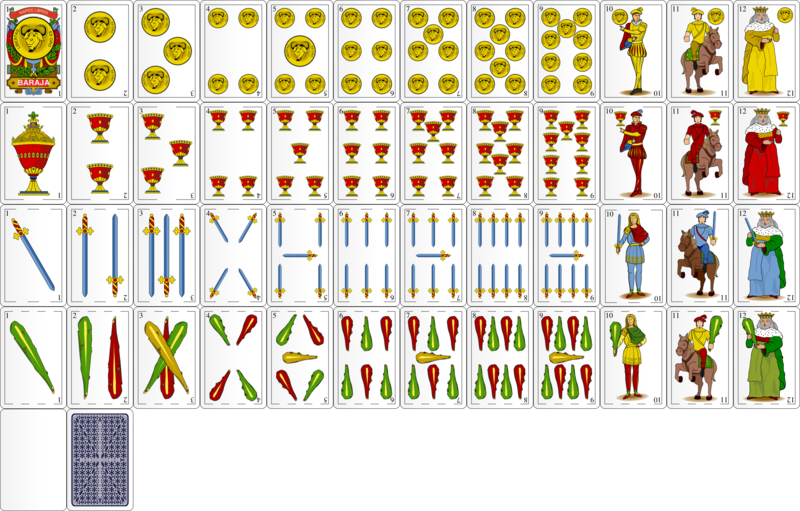
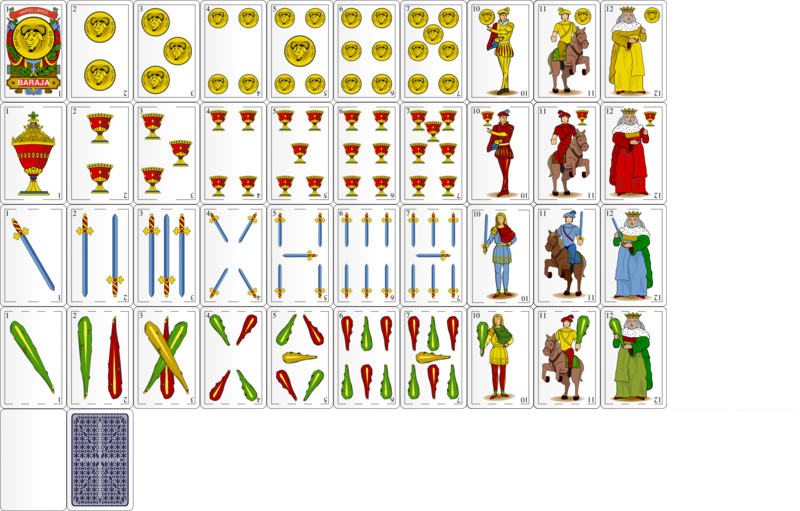
Renderizar bien la pinta

Changed region(s): [[0.5625, 0.0, 1.0, 0.7926]]

diff --git a/TuteLAN_Client.cc b/TuteLAN_Client.cc
@@ -22,7 +22,7 @@ void TuteLAN_Client::initGame() {
 	game_ = SDLGame::init("TuteLAN", _WINDOW_WIDTH_, _WINDOW_HEIGHT_);
 
     texture = game_->getTextureMngr()->getTexture(Resources::Deck);
-	pinta = 4;
+	pinta_suit = 4;
 	pinta_num = 1;
 }
 
@@ -89,6 +89,7 @@ void TuteLAN_Client::renderGame(){
 		int despl = 300;
 		SDL_Rect rect, clip;
 
+		//Render cartas de cada jugador
 		for(int i=0; i < hand.size(); ++i){
 			// Jugador
 			rect = RECT(iniCardPos - 70 + (40 * i), _WINDOW_HEIGHT_/ 2 - CARD_HEIGHT / 2 + despl, CARD_WIDTH, CARD_HEIGHT);
@@ -106,20 +107,20 @@ void TuteLAN_Client::renderGame(){
 			texture->render(rect,270, clip);
 		}
 
+		//Render cartas en la mesa
 		int center_offset = 80;
 		for(int i = 0; i < roundCards.size(); i++){
 			rect = RECT((_WINDOW_WIDTH_ / 2 - CARD_WIDTH / 2) - center_offset + i * CARD_WIDTH, _WINDOW_HEIGHT_/ 2 - CARD_HEIGHT / 2, CARD_WIDTH, CARD_HEIGHT);
 			clip = RECT(CARD_WIDTH * roundCards[i].number, CARD_HEIGHT * roundCards[i].suit, 67, 102 );
 			texture->render(rect,0, clip);
-		}	
-		
+		}		
+
+		// Render pinta
+		rect = RECT(_WINDOW_WIDTH_ - CARD_WIDTH - CARD_WIDTH / 4, CARD_HEIGHT / 2, CARD_WIDTH, CARD_HEIGHT);
+		clip = RECT(CARD_WIDTH * (int)pinta_num, CARD_HEIGHT * (int)pinta_suit, 67, 102 );
+		texture->render(rect,0, clip);
 	
 	}
-
-	// Render pinta
-	SDL_Rect rect = RECT(_WINDOW_WIDTH_ - CARD_WIDTH - CARD_WIDTH / 4, CARD_HEIGHT / 2, CARD_WIDTH, CARD_HEIGHT);
-	SDL_Rect clip = RECT(CARD_WIDTH * pinta_num, CARD_HEIGHT * pinta, 67, 102 );
-	texture->render(rect,0, clip);
 	
 }
 
@@ -173,7 +174,7 @@ void TuteLAN_Client::handleInput() {
 				TuteMSG msg(nick, TuteType::CANTE, client_ID, 1);
     			socket.send(msg);
 				input="\0";
-				std::cout << "Cantar en copas\n";
+				std::cout << "Can39tar en copas\n";
 			}
 			else if(ih->isKeyDown(SDLK_e) ){//rey y caballo de espadas
 				TuteMSG msg(nick, TuteType::CANTE, client_ID, 2);
@@ -350,9 +351,9 @@ void TuteLAN_Client::recv_thread()
 		}
 		case TuteType::PINTA:
 		{
-			pinta=received.getInfo_1();
-			pinta_num = received.getInfo_2();
-			std::cout << "La pinta es: " << (int)pinta << " "<< (int)pinta_num << "\n";
+			pinta_num = received.getInfo_1();
+			pinta_suit = received.getInfo_2();
+			std::cout << "La pinta es: " << (int)pinta_suit << " "<< (int)pinta_num << "\n";
 			break;
 		}
 		case TuteType::CARD:
@@ -379,7 +380,7 @@ void TuteLAN_Client::recv_thread()
 		{
 			//info1 es cliente e info 2 es palo
 			int points=20;
-			if(received.getInfo_2() == pinta)
+			if(received.getInfo_2() == pinta_suit)
 				points=40;
 			//TO DO poner mensaje de texto en pantalla
 			std::cout << "El jugador " << received.getInfo_1() << "ha cantado "<< points << "en " << received.getInfo_2() <<"\n"; 

diff --git a/TuteLAN_Server.cc b/TuteLAN_Server.cc
@@ -217,8 +217,7 @@ void TuteLAN_Server::handle_message(TuteMSG& received, bool& _exit){
 			}
 			//mandar mensaje a todos de quien ha cantado y en que palo
 			TuteMSG msg_send = TuteMSG(player_nicks[received.getInfo_1()], TuteType::CANTE, received.getInfo_1(), received.getInfo_2());								
-			broadcast_message(msg_send);
-								
+			broadcast_message(msg_send);								
 		}
 		else{
 			TuteMSG msg_send = TuteMSG(player_nicks[received.getInfo_1()], TuteType::ILEGAL_MOVE, 0,0);
@@ -277,7 +276,6 @@ void TuteLAN_Server::createDesk(){
 		if(i%10==0)
 			suit++;
 		desk.push_back( { i%10, suit });
-		std::cout << (int)desk[i].number << "  "  << (int)desk[i].suit<< "\n";
 	}
 
 	for(uint8_t i=0; i< MAX_CLIENTS; ++i){
@@ -292,7 +290,7 @@ void TuteLAN_Server::distributeCards()
 	std::random_shuffle(desk.begin(), desk.end());
 
 	//empieza repartiendo al jugador de la derecha del que reparte
-	int player=mano;
+	int player=mano+1;
 
 	for (int i = 0; i < 10 * MAX_CLIENTS ; ++i){
 		handClients[player%MAX_CLIENTS].push_back(desk[i]);
@@ -301,10 +299,8 @@ void TuteLAN_Server::distributeCards()
 	//la pinta es la ultima	
 	pinta = desk[39].suit;
 
-	TuteMSG msg;
-	msg =TuteMSG("", TuteType::PINTA, desk[39].number, desk[39].suit);
-	broadcast_message(msg);
 	sleep(1);
+	TuteMSG msg;
 	for(int j = 0; j < 10; j++){		
 		for(int i = 0; i<clients.size(); ++i){
 			msg = TuteMSG(player_nicks[i], TuteType::HAND, handClients[i][j].number,  handClients[i][j].suit);
@@ -312,6 +308,8 @@ void TuteLAN_Server::distributeCards()
 		}	
 		sleep(1);	
 	}
+	msg =TuteMSG("", TuteType::PINTA, desk[39].number, desk[39].suit);
+	broadcast_message(msg);
 
 }
 

diff --git a/TuteLAN_Client.h b/TuteLAN_Client.h
@@ -42,7 +42,7 @@ private:
 	std::vector<Card> roundCards;
 	int players[3]; 	//cartas de cada jugador
 
-	uint8_t pinta; 		// el palo dominante del juego, si es 4, no hay pinta todavía
+	uint8_t pinta_suit; // el palo dominante del juego, si es 4, no hay pinta todavía
 	uint8_t pinta_num;	// numero de la pinta para renderizarla
 	uint8_t turn;		//el turno 
 	Socket socket;		//mi socket
